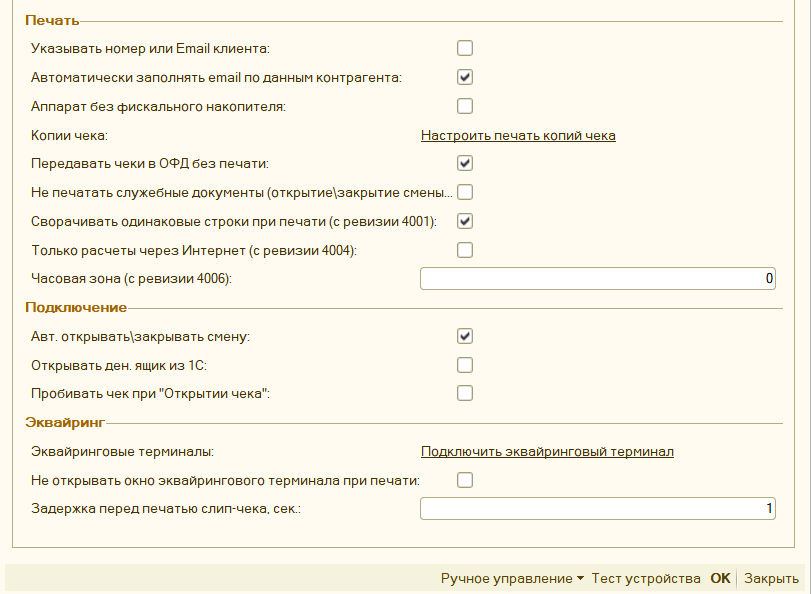
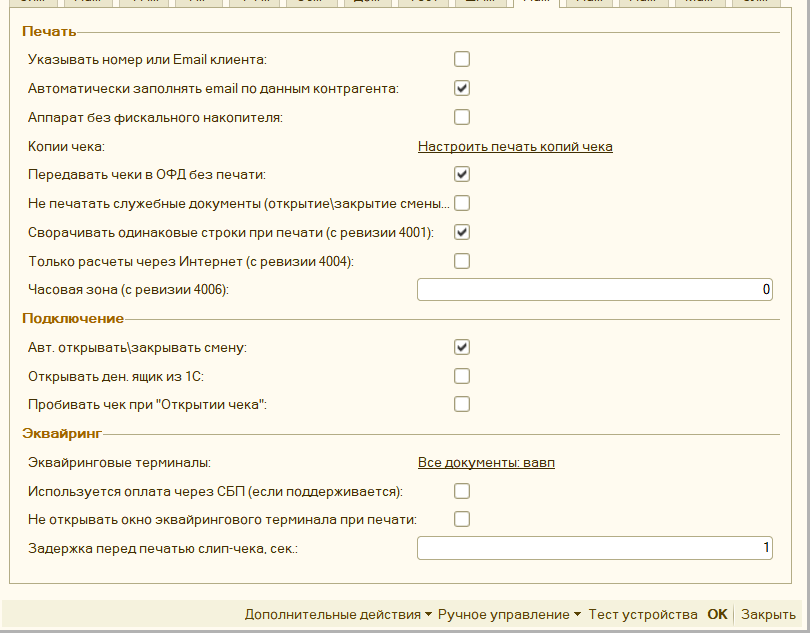
4.15

Changed region(s): [[0.0, 0.0, 1.0, 1.0]]

diff --git a/docs/marking.md b/docs/marking.md
@@ -67,157 +67,101 @@
   
 [Видео-описание](https://youtu.be/LAiJ1Bf3z3U?t=317)
 
-## Разрешительный режим (ТС ПИоТ)
+## Разрешительный режим через ТС ПИоТ
 
-### Общая концепция
+### Что такое ТС ПИоТ и как он работает
 
-**ТС ПИоТ (ЕСМ)** — это отдельное программное обеспечение, которое взаимодействует с фискальным регистратором **напрямую**, минуя прямые обращения кассы или учетной системы к серверам **Честного знака**.
-Фактически ТС ПИоТ выступает промежуточным сервисом проверки разрешения на продажу маркированного товара.
+**ТС ПИоТ (ЕСМ)** — это отдельное программное обеспечение, через которое выполняется проверка разрешения на продажу маркированного товара. Оно взаимодействует с фискальным регистратором и берет на себя обмен данными с системой **«Честный знак»**.
 
-Основные особенности:
+Иными словами, касса или учетная система больше не обращается к «Честному знаку» напрямую. Код маркировки передается в ТС ПИоТ, сервис выполняет проверку — онлайн или офлайн — и возвращает результат. После этого касса продолжает формирование чека, а результат проверки фиксируется в фискальных данных.
 
-* ТС ПИоТ требует **отдельной лицензии**.
-* Устанавливается как **самостоятельное ПО** (возможная встроенная реализация в 1С обсуждается, но официально не подтверждена).
-* Работает как в **онлайн**, так и в **офлайн** режимах.
-* Самостоятельно взаимодействует с локальным модулем маркировки.
+Таким образом, вся логика разрешительного режима сосредоточена в ТС ПИоТ:
 
-По функциональному назначению ТС ПИоТ можно рассматривать как **расширенный локальный модуль**, но с возможностью централизованной онлайн-проверки и собственной логикой хранения офлайн-данных.
+- проверка кодов маркировки;
+- взаимодействие с локальным модулем;
+- хранение данных для офлайн-проверок;
+- возврат результата в кассу.
 
----
+> **Обратите внимание:** для использования ТС ПИоТ потребуется отдельная лицензия. Сервис устанавливается как самостоятельное программное обеспечение. Возможность его встраивания непосредственно в 1С обсуждается, но на данный момент официально не подтверждена.
 
-### Архитектура взаимодействия (упрощенно)
-
-1. Учетная система (1С) формирует данные чека.
-2. Маркированный товар передается, не напрямую в Честный знак, а в **ТС ПИоТ**.
-1. ТС ПИоТ выполняет проверку (онлайн или офлайн), возвращает результат проверки.
-2. Результат проверки передается в кассу, далее — фиксируется в фискальных данных.
-
-Таким образом, **вся логика разрешительного режима изолируется в ТС ПИоТ**.
+По своему назначению ТС ПИоТ можно сравнить с расширенным локальным модулем. Главное отличие — поддержка централизованной онлайн-проверки и собственная логика работы с офлайн-данными.
 
 ---
 
-### Важные ограничения и текущие проблемы
+### Что важно учесть перед переходом
 
-На текущий момент инфраструктура ТС ПИоТ считается **незрелой**, возможны технические несоответствия:
+Инфраструктура ТС ПИоТ пока находится в стадии развития, поэтому совместимость компонентов необходимо проверять особенно внимательно. Основная сложность сейчас связана с версиями драйверов ККТ.
 
-* Некоторые версии драйверов содержат поддержку gRPC, но не поддерживают НДС 22%.
-* Более новые драйверы поддерживают НДС 22%, но могут не содержать необходимых параметров для интеграции с ТС ПИоТ.
+Например, в драйвере **АТОЛ 10.10.7.21** присутствует поле для указания порта gRPC, необходимое для взаимодействия с ТС ПИоТ, но нет поддержки ставки НДС 22%. В версии **10.10.8.2**, наоборот, поддержка НДС 22% уже есть, однако интеграция с ТС ПИоТ может работать некорректно из-за отсутствия необходимых параметров.
 
-Пример:
+> **Важно:** при выборе драйвера недостаточно проверить только поддержку ТС ПИоТ или только актуальную ставку НДС. Версия должна одновременно соответствовать обоим требованиям.
 
-* Драйверы **АТОЛ 10.10.7.21** — есть поле *gRPC порт*, но нет поддержки НДС 22%.
-* Драйверы **10.10.8.2** — поддержка НДС есть, но интеграция с ТС ПИоТ нарушена.
-
-Это следует учитывать при выборе версии драйвера и планировании перехода.
+Перед переходом рекомендуется отдельно проверить связку из конкретной модели фискального регистратора, его прошивки, версии драйвера и установленного модуля ТС ПИоТ.
 
 ---
 
-### Требования для использования ТС ПИоТ
+### Что потребуется для работы
 
-Для работы разрешительного режима через ТС ПИоТ необходимо:
+Для корректной работы разрешительного режима через ТС ПИоТ необходимо выполнить несколько условий:
 
-* Фискальный регистратор - поддерживает **ФФД 1.2** и имеет актуальную прошивку.
-* Драйвер ККТ совместим с ТС ПИоТ, корректно поддерживает текущие ставки НДС.
-* Версия обработки **не ниже 4.08**.
-* Установлен и настроен модуль **ЕСМ (ТС ПИоТ)**.
-* Настроена связь между фискальным регистратором и ТС ПИоТ.
+- фискальный регистратор должен поддерживать **ФФД 1.2** и иметь актуальную прошивку;
+- драйвер ККТ должен быть совместим с ТС ПИоТ и корректно поддерживать действующие ставки НДС;
+- должна использоваться версия обработки **4.08 или выше**;
+- модуль **ЕСМ (ТС ПИоТ)** должен быть установлен и настроен;
+- между фискальным регистратором и ТС ПИоТ должна быть настроена связь.
 
-Без выполнения всех пунктов корректная работа разрешительного режима не гарантируется.
+Если хотя бы одно из этих требований не выполнено, корректная работа разрешительного режима не гарантируется.
 
 ---
 
-### Использование ТС ПИоТ в обработке
+### Настройка ТС ПИоТ в обработке
 
-В меню разрешительного режима добавлены параметры, связанные с ТС ПИоТ:
+В настройках разрешительного режима предусмотрены два параметра: **адрес сервиса ТС ПИоТ** и **дата начала его использования**.
 
-* адрес сервиса ТС ПИоТ;
-* дата начала применения.
+По умолчанию установлена дата **28 декабря 2025 года**. При необходимости ее можно перенести на более ранний срок, например для предварительного тестирования. Старый механизм разрешительного режима при этом можно использовать до октября 2026 года.
 
-По умолчанию дата начала установлена на **28 декабря 2025 года**.
-Допускается:
-
-* сдвиг даты **раньше** — для тестирования;
-* использование **до конца марта 2026 года** старого разрешительного режима.
-
-Это связано с тем, что:
-
-* прежний механизм пока остается технически доступным;
-* функциональность ТС ПИоТ находится в стадии доработки.
+Переходный период предусмотрен потому, что прежний механизм пока остается технически доступным, а функциональность ТС ПИоТ продолжает дорабатываться.
 
 ![Настройка разрешительного режима ТС ПИоТ](media/edit_tspiot.png)
 
+Также добавлена возможность при ошибке проверки ТС Пиот, запускать проверку средствами разрешительного режима, если он настроен и работает. За это отвечает параметр "**При ошибке ТС Пиот проверять через разрешительный режим**"
 
-#### Заполнение настроек
 
-Алгоритм настройки минимален:
+Для заполнения настроек достаточно указать адрес ТС ПИоТ и нажать кнопку **«Заполнить настройки»**.
 
-1. Указать адрес ТС ПИоТ.
-2. Нажать **«Заполнить настройки»**.
-
-Если в самом модуле ТС ПИоТ уже зарегистрировано оборудование:
-
-* автоматически заполняются:
-
-  - номер фискального накопителя;
-  - ИНН организации.
-* дополнительные параметры вводить **не требуется**.
+Если оборудование уже зарегистрировано в самом модуле ТС ПИоТ, обработка автоматически получит номер фискального накопителя и ИНН организации. Вводить эти сведения вручную не потребуется.
 
 ---
 
-### Работа пользователя
+### Что изменится для пользователя
 
-С точки зрения пользователя:
+Для кассира привычный сценарий продажи не меняется. Работа с маркированным товаром и интерфейс кассы остаются прежними.
 
-* сценарий продажи **не меняется**;
-* интерфейс работы с маркировкой остается прежним.
-
-Отличие только одно:
-
-* вместо прямого обращения в Честный знак:
-
-  - марка передается в ТС ПИоТ;
-  - результат проверки возвращается из него.
+Изменяется только технический маршрут проверки: код маркировки передается не напрямую в систему «Честный знак», а в ТС ПИоТ. После проверки сервис возвращает результат, и продажа продолжается в обычном порядке.
 
 ---
 
-### Важное замечание об офлайн-режиме
+### Офлайн-режим
 
-> **Важно:**
-> При использовании ТС ПИоТ **не требуется** настраивать локальный модуль маркировки внутри обработки.
+> **Важно:** при использовании ТС ПИоТ не нужно отдельно настраивать локальный модуль маркировки внутри обработки.
 
-Причина:
+Офлайн-режим уже реализован в самом ТС ПИоТ. Сервис самостоятельно управляет подключением, хранит необходимые офлайн-данные и напрямую взаимодействует с локальным модулем маркировки.
 
-* офлайн-режим уже реализован **в самом ТС ПИоТ**;
-* ТС ПИоТ:
-
-  - сам управляет связью,
-  - сам хранит офлайн-данные,
-  - интегрируется с локальным модулем напрямую.
-
-Дублирование настройки локального модуля может привести к конфликтам.
+Повторная настройка локального модуля в обработке не требуется и может привести к конфликтам.
 
 ---
 
-### Проверка работы через демо-сервер
+### Как проверить работу без реального оборудования
 
-Для тестирования доступен внешний сервис, эмулирующий работу ТС ПИоТ:
+Для предварительного тестирования можно использовать официальный сервис, эмулирующий работу ТС ПИоТ:
 
-* **Официальный демо-сервер:**
-  `https://esm-emu.ao-esp.ru`
+`https://esm-emu.ao-esp.ru`
 
-Он позволяет:
+Демо-сервер позволяет проверить логику разрешительного режима и отладить интеграцию до подключения реального оборудования.
 
-* проверить логику разрешительного режима;
-* отладить интеграцию без реального оборудования.
+Наиболее удобный вариант для тестовой среды — использовать демо-сервер ТС ПИоТ вместе с **эмулятором фискального регистратора**. Это позволяет заранее проверить настройки и снизить риски при последующем внедрении.
 
-Рекомендуется использовать:
-
-* демо-сервер ТС ПИоТ;
-* совместно с **эмулятором фискального регистратора**.
-
-Это упрощает тестирование и снижает риски при внедрении.
-
-### Техническая возможность использовать обычный разрешительный режим до марта 2026
+### Техническая возможность использовать обычный разрешительный режим до октября 2026
 
 на текущий момент информации об острочке использования ТС ПИОТ не публиковалась, и сроки использовать его с 28 декабря 2025 года сохраняются, однако техническая возможность по использованию старого разрешительного режима сохраняется.
 
@@ -228,11 +172,11 @@
 Если подходящего ПО или кассы пока нет — переживать не нужно. По мере появления разработанных решений их можно будет установить без риска наступления ответственности.
 Для установки нового ПО вы можете связаться с разработчиками (из реестра ТС ПИоТ) или обратиться в ваш или любой другой центр технического обслуживания касс (их перечень доступен по ссылке).
 На текущем этапе наличие или отсутствие ТС ПИоТ не будет проверяться, поэтому поводов для беспокойства или опасений по поводу штрафов нет. Однако если решение для вашей кассы уже доступно, мы рекомендуем установить его заранее — это позволит избежать возможных технических затруднений в дальнейшем.
-Кассовое программное обеспечение технически сможет взаимодействовать с ГИС МТ и Локальным Модулем, по существующим протоколам, до окончания срока действия токена X-API-KEY (до 1 марта 2026 года), но с нормативной точки зрения, розничный участник оборота применяющий на кассе разрешительный режим, с 28 декабря обязуется настроить работу через ТС ПИоТ.
+Кассовое программное обеспечение технически сможет взаимодействовать с ГИС МТ и Локальным Модулем, по существующим протоколам, до окончания срока действия токена X-API-KEY (до 1 октября 2026 года), но с нормативной точки зрения, розничный участник оборота применяющий на кассе разрешительный режим, с 28 декабря обязуется настроить работу через ТС ПИоТ.
 
 ## Разрешительный режим продажи маркировки ##
 
-> Устарело, с 28 декабря 2025 года желательно использовать ТС ПИоТ, текущая вариант разрешительного режима остается доступен вплоть до начала марта 2026 г.
+> Устарело, с 28 декабря 2025 года желательно использовать ТС ПИоТ, текущая вариант разрешительного режима остается доступен вплоть до начала октября 2026 г.
 
 Ниже — оформленный, выровненный и упрощённый вариант инструкции.
 Смысл сохранён полностью, текст разбит на логические блоки, добавлены пояснения и акценты на важные моменты. Используется простой Markdown.
@@ -500,7 +444,7 @@ https://cdn\d{2}\.crpt\.ru
 
 ![Рекомендации ЧЗ](media/rec_local_mod.png)
 
-- **`Задать группы товаров офлайн`** – позволяет выбрать, для каких товаров загружать данные о заблокированных марках.
+- **`Задать группы товаров офлайн`** – позволяет выбрать, для каких товаров загружать данные о заблокированных марках. (*не применяется для версии локального модуля V2*)
 
 ![Настройка локального модуля](media/local_module.png)
 

diff --git a/docs/parameters_description.md b/docs/parameters_description.md
@@ -136,6 +136,8 @@ hide:
 
 **«Эквайринговые терминалы»** - позволяет указать параметры подключения эквайринговых терминалов к данной обработке (см. [Подключение эквайринговых терминалов](connecting.md#подключение-эквайринговых-терминалов))
 
+**«Испольузется оплата через СБП (если поддерживается)» -** при включении данного параметра появляется новый вид оплаты "СБП" в форме проверки печати, в основном он не отличается от безналичной оплаты, однако дополнительно в компоненту эквайрингового терминала передается, что это именно оплата через СБП.
+
 **«Не открывать окно эквайрингового терминала при печати» -** данный параметр отключает открытие окна с суммой, что будет пробита на эквайринговом терминале, также в этом окне можно указать ссылочный номер пробитого чека на эквайринге, необходим при возвратах.
 
 **«Задержка перед печатью слип-чека, сек» -** позволяет увеличивать задержку перед печатью слип-чека на эквайринге, что полезно, если на фискальном регистраторе нет автоматической отрезки. Работает, если печать происходит через фискальный регистратор. Максимальное время задержки 40 секунд.
